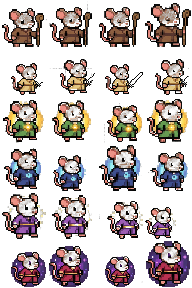
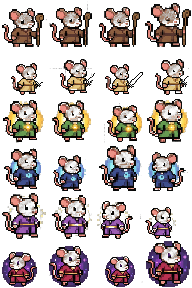
v2.8: 精灵放大2.5倍 + 修复帧方向不一致 + 灵兽/坐骑朝向修正
- SCALE_RATIO: 0.3 → 0.75 (精灵视觉大小放大约2.5倍)
- 修复精灵图集帧方向不一致问题:
  - monsters.png: 修复11帧方向翻转 (墨蛟蛇/化龙妖蛟/血衣魔修/天魔老祖等)
  - beasts.png: 修复2帧方向翻转 (蛟龙frame1/天凤frame0)
  - mouse.png: 修复3帧方向翻转 (元婴/化神/大乘期)
- 修正怪物flipX配置: 根据实际朝向设置(面LEFT的不翻转)
- 修正灵兽flipX配置: 配合renderer的ctx.scale(-1,1)确保朝RIGHT
- 修正坐骑flipX配置: 麒麟flipX=true配合renderer翻转
- 调整图鉴scale: 2.2~2.8 → 1.0~1.2 配合新SCALE_RATIO
- adjustedY偏移: 4*scale → 6*scale 优化底部对齐

Changed region(s): [[0.5, 0.6875, 0.75, 0.8438], [0.75, 0.5312, 1.0, 0.6875], [0.0, 0.875, 0.25, 1.0]]

diff --git a/public/sprite-loader.js b/public/sprite-loader.js
@@ -315,12 +315,11 @@ const SpriteLoader = (function() {
     constructor(atlas, fallbackSprites) {
       this.atlas = atlas;
       this.fallback = fallbackSprites;
-      // 原始 sprites.js 中 scale 表示"每个像素方块的物理尺寸"，角色约 13×11 方块
-      // SpriteSheet 中 scale 乘以整个帧(48×48)。
-      // 为匹配视觉大小：原始 scale=3 → 角色约 40px 宽
-      // SpriteSheet scale=3 → 48*3=144px 宽
-      // 比率 = 40/144 ≈ 0.28，取 0.3 略大一点更好看
-      this.SCALE_RATIO = 0.3;
+      // 精灵图集缩放比率
+      // SpriteSheet scale 乘以整帧(48×48)尺寸
+      // SCALE_RATIO=0.75 → PIXEL_SCALE(3) × 0.75 = 2.25 → 48×2.25 = 108px 宽
+      // 角色约占画面 ~108px，视觉上比鼠鼠1稍大，效果好
+      this.SCALE_RATIO = 0.75;
     }
 
     // --- 怪物 ---
@@ -331,11 +330,8 @@ const SpriteLoader = (function() {
         opts.tint = '#FFF';
         opts.tintAlpha = Math.min(hitAnim / 5, 0.6);
       }
-      // 原始绘制中心在 (x, y) 附近，角色约 -7s 到 +4s 垂直范围
-      // SpriteSheet anchor (0.5, 1.0) = 底部居中
-      // 需要把 y 调整为 "角色底部" 位置：y + 4*scale（原始角色底部在 y+4s 处）
       const adjustedScale = scale * this.SCALE_RATIO;
-      const adjustedY = y + 4 * scale; // 原始角色底部偏移
+      const adjustedY = y + 6 * scale; // 精灵底部对齐地面
       const ok = this.atlas.draw(ctx, name, x, adjustedY, adjustedScale, animFrame, opts);
       if (!ok) {
         // fallback 原始 Canvas 绘制
@@ -360,7 +356,7 @@ const SpriteLoader = (function() {
 
       const drawOpts = {};
       const adjustedScale = scale * this.SCALE_RATIO;
-      const adjustedY = y + 4 * scale;
+      const adjustedY = y + 6 * scale;
       const ok = this.atlas.draw(ctx, spriteName, x, adjustedY, adjustedScale, animFrame, drawOpts);
       if (!ok) {
         this.fallback.drawMouseByRealm(ctx, x, y, scale, realmIndex, animFrame, attacking, options);
@@ -370,7 +366,7 @@ const SpriteLoader = (function() {
     // --- 灵兽 ---
     drawActiveBeast(ctx, x, y, scale, beastTemplateId, animFrame) {
       const adjustedScale = scale * this.SCALE_RATIO;
-      const adjustedY = y + 4 * scale;
+      const adjustedY = y + 6 * scale;
       const ok = this.atlas.draw(ctx, beastTemplateId, x, adjustedY, adjustedScale, animFrame);
       if (!ok) {
         this.fallback.drawActiveBeast(ctx, x, y, scale, beastTemplateId, animFrame);
@@ -380,7 +376,7 @@ const SpriteLoader = (function() {
     // --- 坐骑 ---
     drawMountCrane(ctx, x, y, scale, animFrame) {
       const adjustedScale = scale * this.SCALE_RATIO;
-      const adjustedY = y + 4 * scale;
+      const adjustedY = y + 6 * scale;
       const ok = this.atlas.draw(ctx, 'mount_crane', x, adjustedY, adjustedScale, animFrame);
       if (!ok) {
         this.fallback.drawMountCrane(ctx, x, y, scale, animFrame);
@@ -389,7 +385,7 @@ const SpriteLoader = (function() {
 
     drawMountQilin(ctx, x, y, scale, animFrame) {
       const adjustedScale = scale * this.SCALE_RATIO;
-      const adjustedY = y + 4 * scale;
+      const adjustedY = y + 6 * scale;
       const ok = this.atlas.draw(ctx, 'mount_qilin', x, adjustedY, adjustedScale, animFrame);
       if (!ok) {
         this.fallback.drawMountQilin(ctx, x, y, scale, animFrame);
@@ -441,50 +437,55 @@ const SpriteLoader = (function() {
     // --- 怪物图集 ---
     const monstersSheet = new SpriteSheet('assets/monsters.png', 48, 48);
     monstersSheet.defineAll({
-      // 炼气期 (tier 0) — row 0-2
+      // 炼气期 (tier 0) — row 0-2 — 图集面RIGHT，需翻转
       '灰毛妖鼠':     { row: 0, col: 0, frames: 4, flipX: true },
       '毒蟾蜍':       { row: 1, col: 0, frames: 4, flipX: true },
       '赤狐妖':       { row: 2, col: 0, frames: 4, flipX: true },
       // 筑基期 (tier 1) — row 3-5
-      '铁甲傀儡':     { row: 3, col: 0, frames: 4, flipX: true },
-      '墨蛟蛇':       { row: 4, col: 0, frames: 4, flipX: true },
-      '暴猿妖':       { row: 5, col: 0, frames: 4, flipX: true },
+      '铁甲傀儡':     { row: 3, col: 0, frames: 4, flipX: false },   // CENTER
+      '墨蛟蛇':       { row: 4, col: 0, frames: 4, flipX: false },   // 已面LEFT
+      '暴猿妖':       { row: 5, col: 0, frames: 4, flipX: false },   // 已面LEFT
       // 金丹期 (tier 2) — row 6-8
-      '冰魄蜘蛛':     { row: 6, col: 0, frames: 4, flipX: true },
-      '三眼火鸦':     { row: 7, col: 0, frames: 4, flipX: true },
-      '豹形雷兽':     { row: 8, col: 0, frames: 4, flipX: true },
+      '冰魄蜘蛛':     { row: 6, col: 0, frames: 4, flipX: false },   // 已面LEFT
+      '三眼火鸦':     { row: 7, col: 0, frames: 4, flipX: false },   // CENTER
+      '豹形雷兽':     { row: 8, col: 0, frames: 4, flipX: true },    // 面RIGHT，需翻转
       // 元婴期 (tier 3) — row 9-11
-      '鬼影修士':     { row: 9,  col: 0, frames: 4, flipX: true },
-      '化龙妖蛟':     { row: 10, col: 0, frames: 4, flipX: true },
-      '血衣魔修':     { row: 11, col: 0, frames: 4, flipX: true },
+      '鬼影修士':     { row: 9,  col: 0, frames: 4, flipX: true },   // 面RIGHT，需翻转
+      '化龙妖蛟':     { row: 10, col: 0, frames: 4, flipX: false },  // 已面LEFT
+      '血衣魔修':     { row: 11, col: 0, frames: 4, flipX: false },  // 已面LEFT
       // 化神期 (tier 4) — row 12-14
-      '天魔老祖':     { row: 12, col: 0, frames: 4, flipX: true },
-      '九尾天狐':     { row: 13, col: 0, frames: 4, flipX: true },
-      '血魔宗主':     { row: 14, col: 0, frames: 4, flipX: true },
+      '天魔老祖':     { row: 12, col: 0, frames: 4, flipX: false },  // 已面LEFT
+      '九尾天狐':     { row: 13, col: 0, frames: 4, flipX: false },  // 已面LEFT
+      '血魔宗主':     { row: 14, col: 0, frames: 4, flipX: false },  // 已面LEFT
       // 大乘期 (tier 5) — row 15-17
-      '劫雷真龙':     { row: 15, col: 0, frames: 4, flipX: true },
-      '混沌古兽':     { row: 16, col: 0, frames: 4, flipX: true },
-      '天道魔神':     { row: 17, col: 0, frames: 4, flipX: true },
+      '劫雷真龙':     { row: 15, col: 0, frames: 4, flipX: false },  // 已面LEFT
+      '混沌古兽':     { row: 16, col: 0, frames: 4, flipX: false },  // 已面LEFT
+      '天道魔神':     { row: 17, col: 0, frames: 4, flipX: false },  // 已面LEFT
     });
     atlas.add('monsters', monstersSheet);
 
     // --- 灵兽图集 ---
     const beastsSheet = new SpriteSheet('assets/beasts.png', 48, 48);
     beastsSheet.defineAll({
-      'fire_cat':       { row: 0, col: 0, frames: 4 },
-      'ice_wolf':       { row: 1, col: 0, frames: 4 },
-      'thunder_eagle':  { row: 2, col: 0, frames: 4 },
-      'shadow_serpent':  { row: 3, col: 0, frames: 4 },
-      'jade_dragon':    { row: 4, col: 0, frames: 4 },
-      'phoenix':        { row: 5, col: 0, frames: 4 },
+      // renderer.js 中灵兽绘制带 ctx.scale(-1,1)，所以精灵需先面LEFT
+      // 面RIGHT的加flipX:true翻成LEFT → renderer翻回RIGHT（朝怪物）✅
+      // 面LEFT的不翻 → renderer翻为RIGHT（朝怪物）✅
+      'fire_cat':       { row: 0, col: 0, frames: 4, flipX: true },   // 图集面RIGHT
+      'ice_wolf':       { row: 1, col: 0, frames: 4, flipX: true },   // 图集面RIGHT
+      'thunder_eagle':  { row: 2, col: 0, frames: 4, flipX: false },  // CENTER
+      'shadow_serpent':  { row: 3, col: 0, frames: 4, flipX: true },  // 图集面RIGHT
+      'jade_dragon':    { row: 4, col: 0, frames: 4, flipX: false },  // 图集面LEFT
+      'phoenix':        { row: 5, col: 0, frames: 4, flipX: false },  // 图集面LEFT
     });
     atlas.add('beasts', beastsSheet);
 
     // --- 坐骑图集 ---
     const mountsSheet = new SpriteSheet('assets/mounts.png', 64, 48);
     mountsSheet.defineAll({
-      'mount_crane': { row: 0, col: 0, frames: 4 },
-      'mount_qilin': { row: 1, col: 0, frames: 4 },
+      // renderer.js 中坐骑绘制带 ctx.scale(-1,1)，逻辑同灵兽
+      // 面RIGHT的加flipX:true翻成LEFT → renderer翻回RIGHT ✅
+      'mount_crane': { row: 0, col: 0, frames: 4, flipX: false },   // CENTER
+      'mount_qilin': { row: 1, col: 0, frames: 4, flipX: true },    // 面RIGHT
     });
     atlas.add('mounts', mountsSheet);
 

diff --git a/public/ui.js b/public/ui.js
@@ -400,12 +400,11 @@ const UI = (() => {
         if (!cvs) continue;
         const cctx = cvs.getContext('2d');
         cctx.clearRect(0, 0, 48, 48);
-        // SpriteSheet 通过 SpriteRenderer 的 SCALE_RATIO(0.3) 缩放
-        // 为在 48×48 小 canvas 中填满，需要用较大的 scale
-        // SpriteSheet: 48 * scale * 0.3 ≈ 40px → scale ≈ 2.8
-        // Fallback: 角色约 13*scale px → scale=2.8 → 36px，也OK
-        const scale = item.tier <= 1 ? 2.8 : item.tier <= 3 ? 2.5 : 2.2;
-        Sprites.drawMonsterByName(cctx, item.name, 24, 32, scale, 0, 0);
+        // SpriteSheet 通过 SpriteRenderer 的 SCALE_RATIO(0.75) 缩放
+        // 为在 48×48 小 canvas 中适当填充：48 * scale * 0.75 ≈ 40px → scale ≈ 1.1
+        // Fallback Canvas 绘制: 角色约 13*scale px → scale=1.1 → 14px（偏小但可接受）
+        const scale = item.tier <= 1 ? 1.2 : item.tier <= 3 ? 1.1 : 1.0;
+        Sprites.drawMonsterByName(cctx, item.name, 24, 38, scale, 0, 0);
       }
     });
   }
